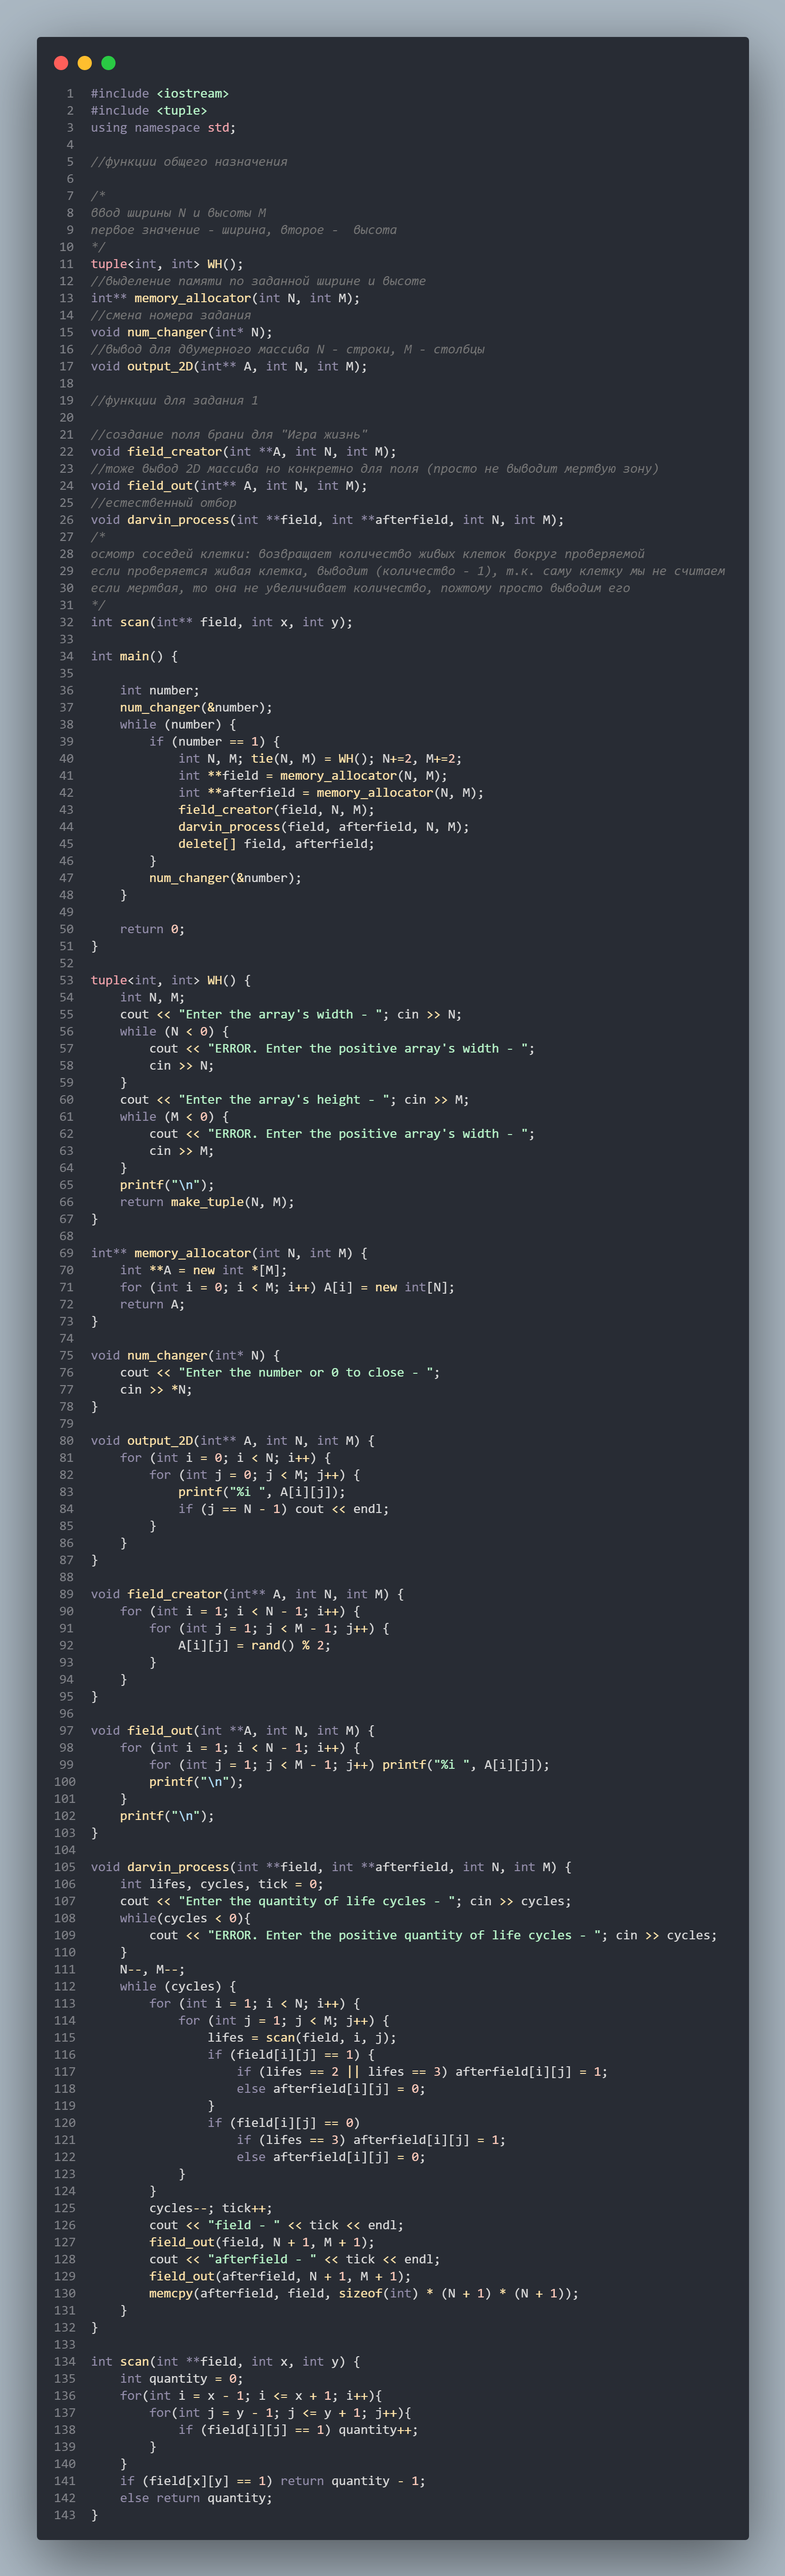
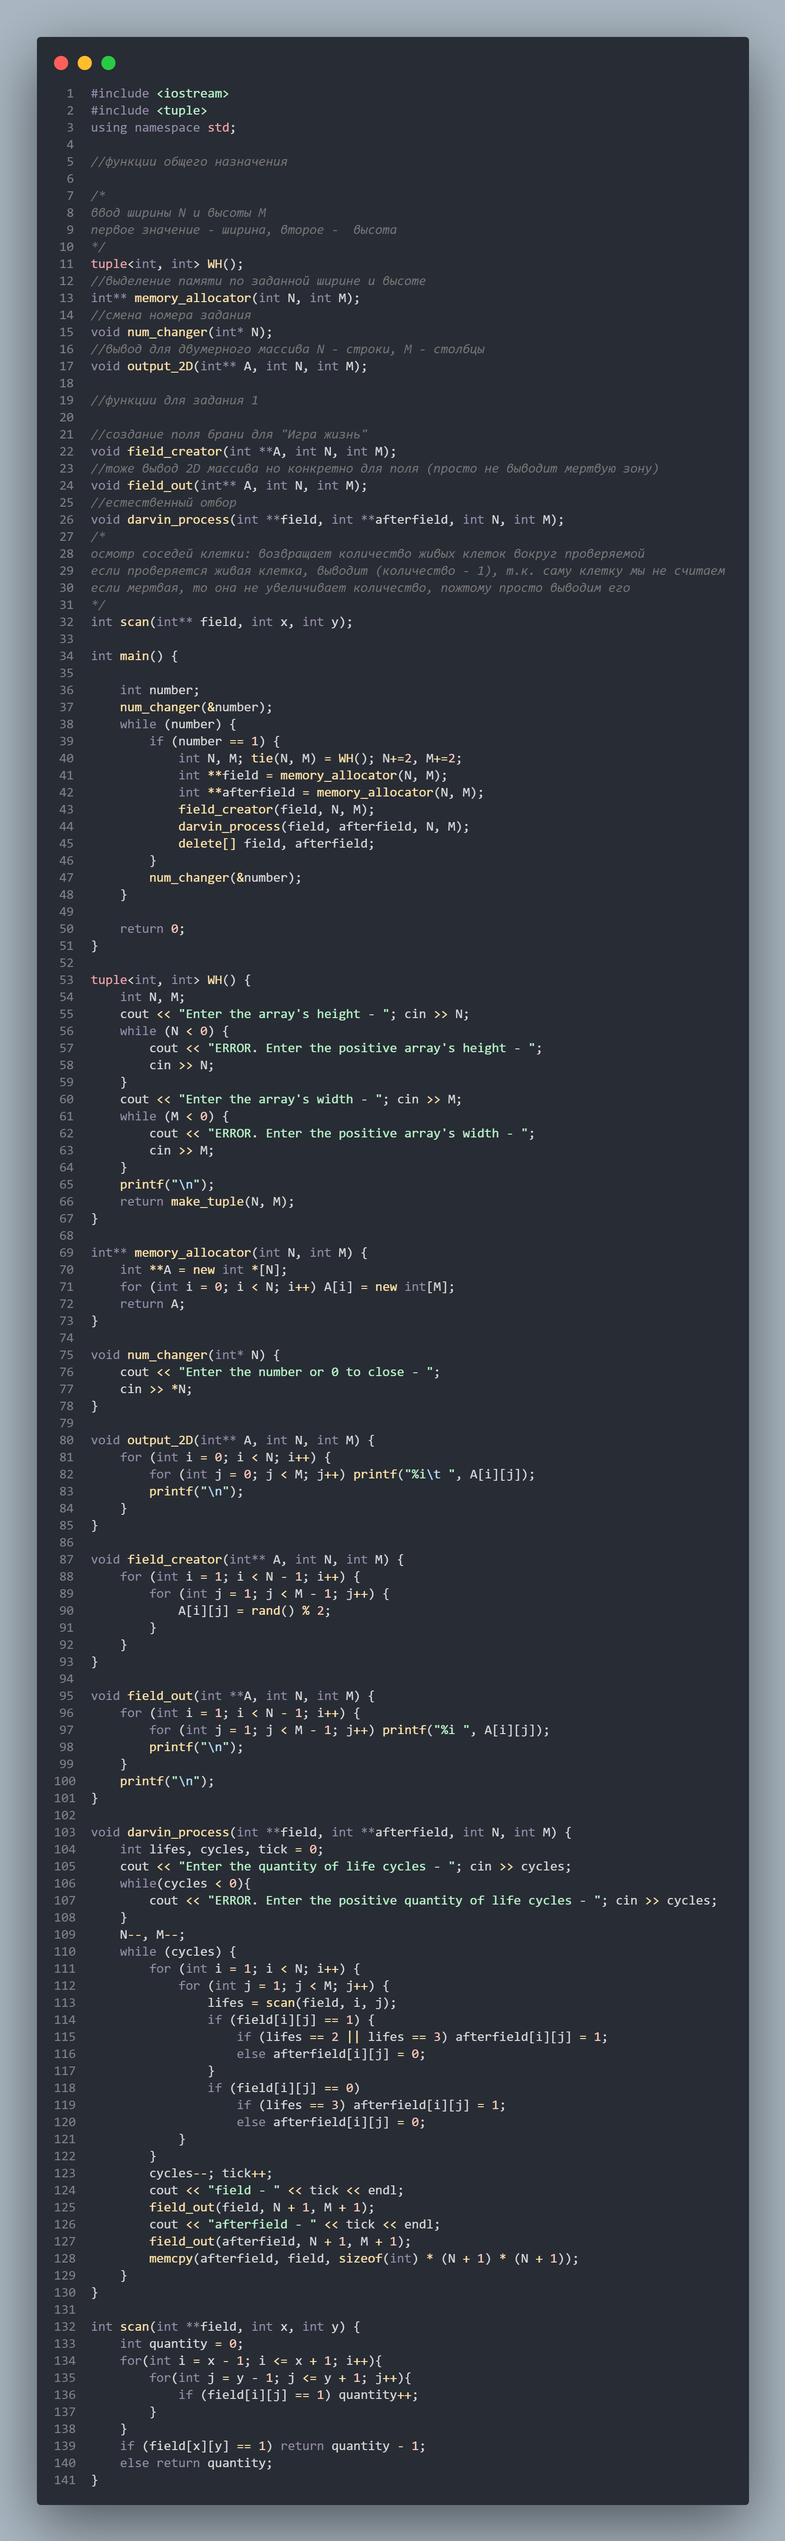
Исправлена ошибка вывода перед вводом..

diff --git a/lab2_PG/lab2_PG.cpp b/lab2_PG/lab2_PG.cpp
@@ -52,12 +52,12 @@ int main() {
 
 tuple<int, int> WH() {
 	int N, M;
-	cout << "Enter the array's width - "; cin >> N;
+	cout << "Enter the array's height - "; cin >> N;
 	while (N < 0) {
-		cout << "ERROR. Enter the positive array's width - ";
+		cout << "ERROR. Enter the positive array's height - ";
 		cin >> N;
 	}
-	cout << "Enter the array's height - "; cin >> M;
+	cout << "Enter the array's width - "; cin >> M;
 	while (M < 0) {
 		cout << "ERROR. Enter the positive array's width - ";
 		cin >> M;
@@ -67,8 +67,8 @@ tuple<int, int> WH() {
 }
 
 int** memory_allocator(int N, int M) {
-	int **A = new int *[M];
-	for (int i = 0; i < M; i++) A[i] = new int[N];
+	int **A = new int *[N];
+	for (int i = 0; i < N; i++) A[i] = new int[M];
 	return A;
 }
 
@@ -79,10 +79,8 @@ void num_changer(int* N) {
 
 void output_2D(int** A, int N, int M) {
 	for (int i = 0; i < N; i++) {
-		for (int j = 0; j < M; j++) {
-			printf("%i ", A[i][j]);
-			if (j == N - 1) cout << endl;
-		}
+		for (int j = 0; j < M; j++) printf("%i\t ", A[i][j]);
+		printf("\n");
 	}
 }
 
